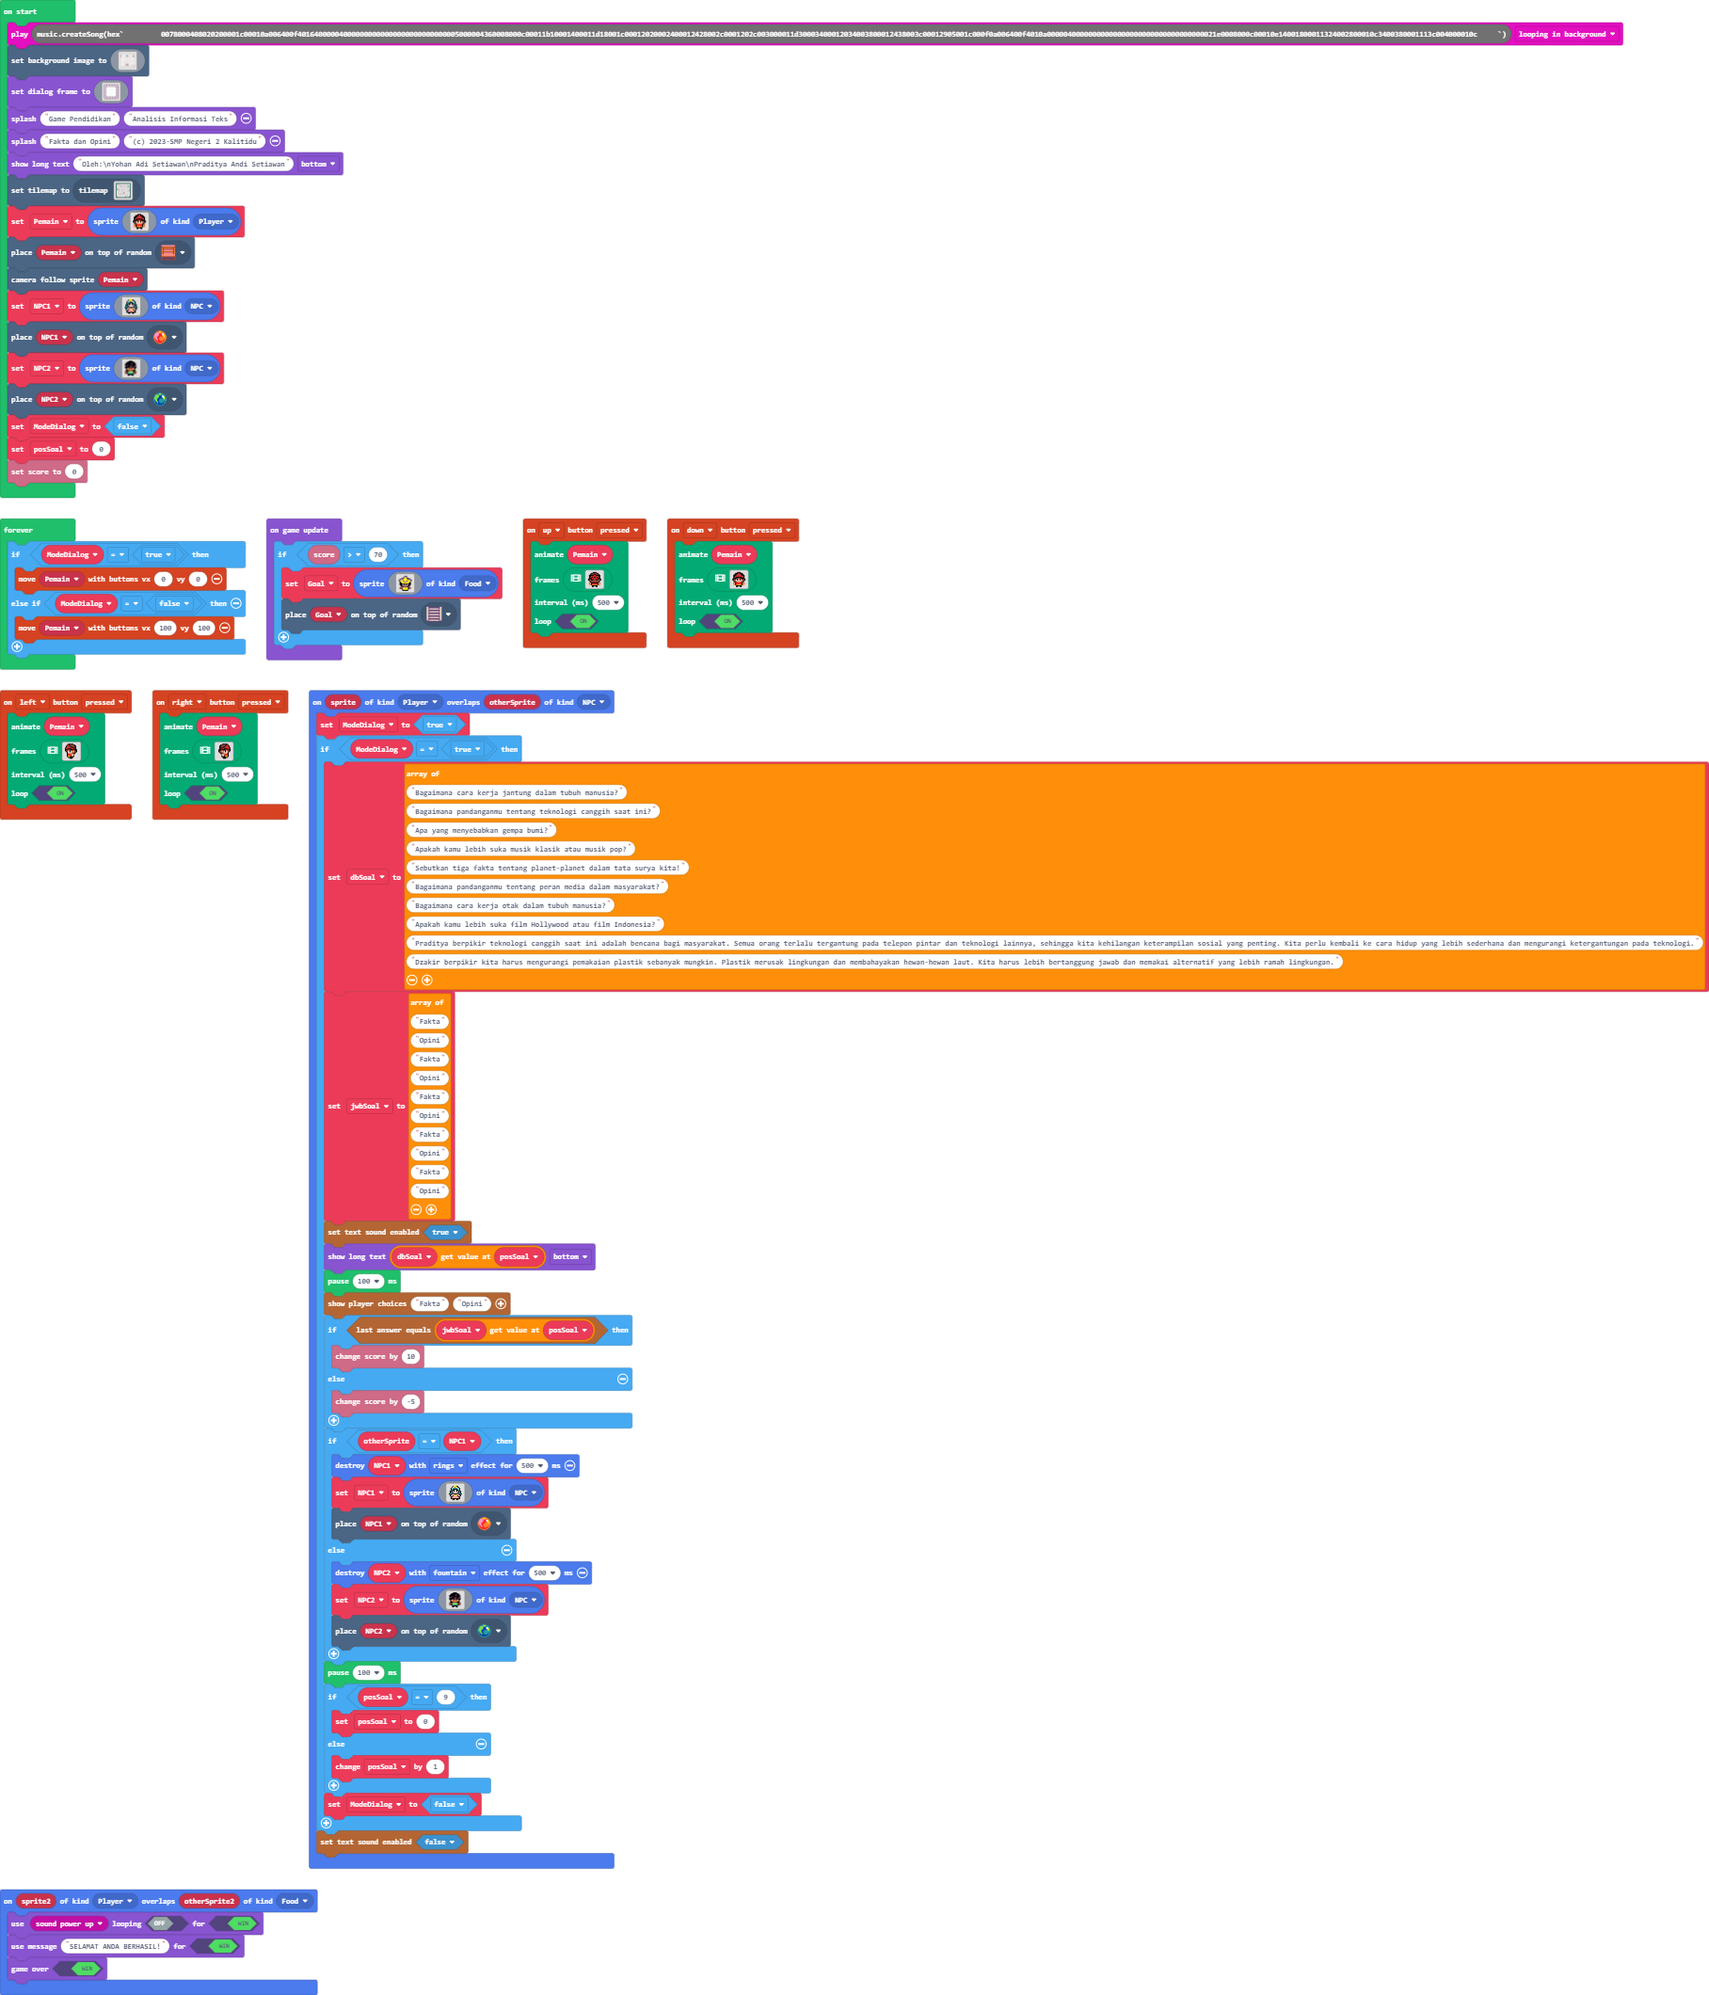
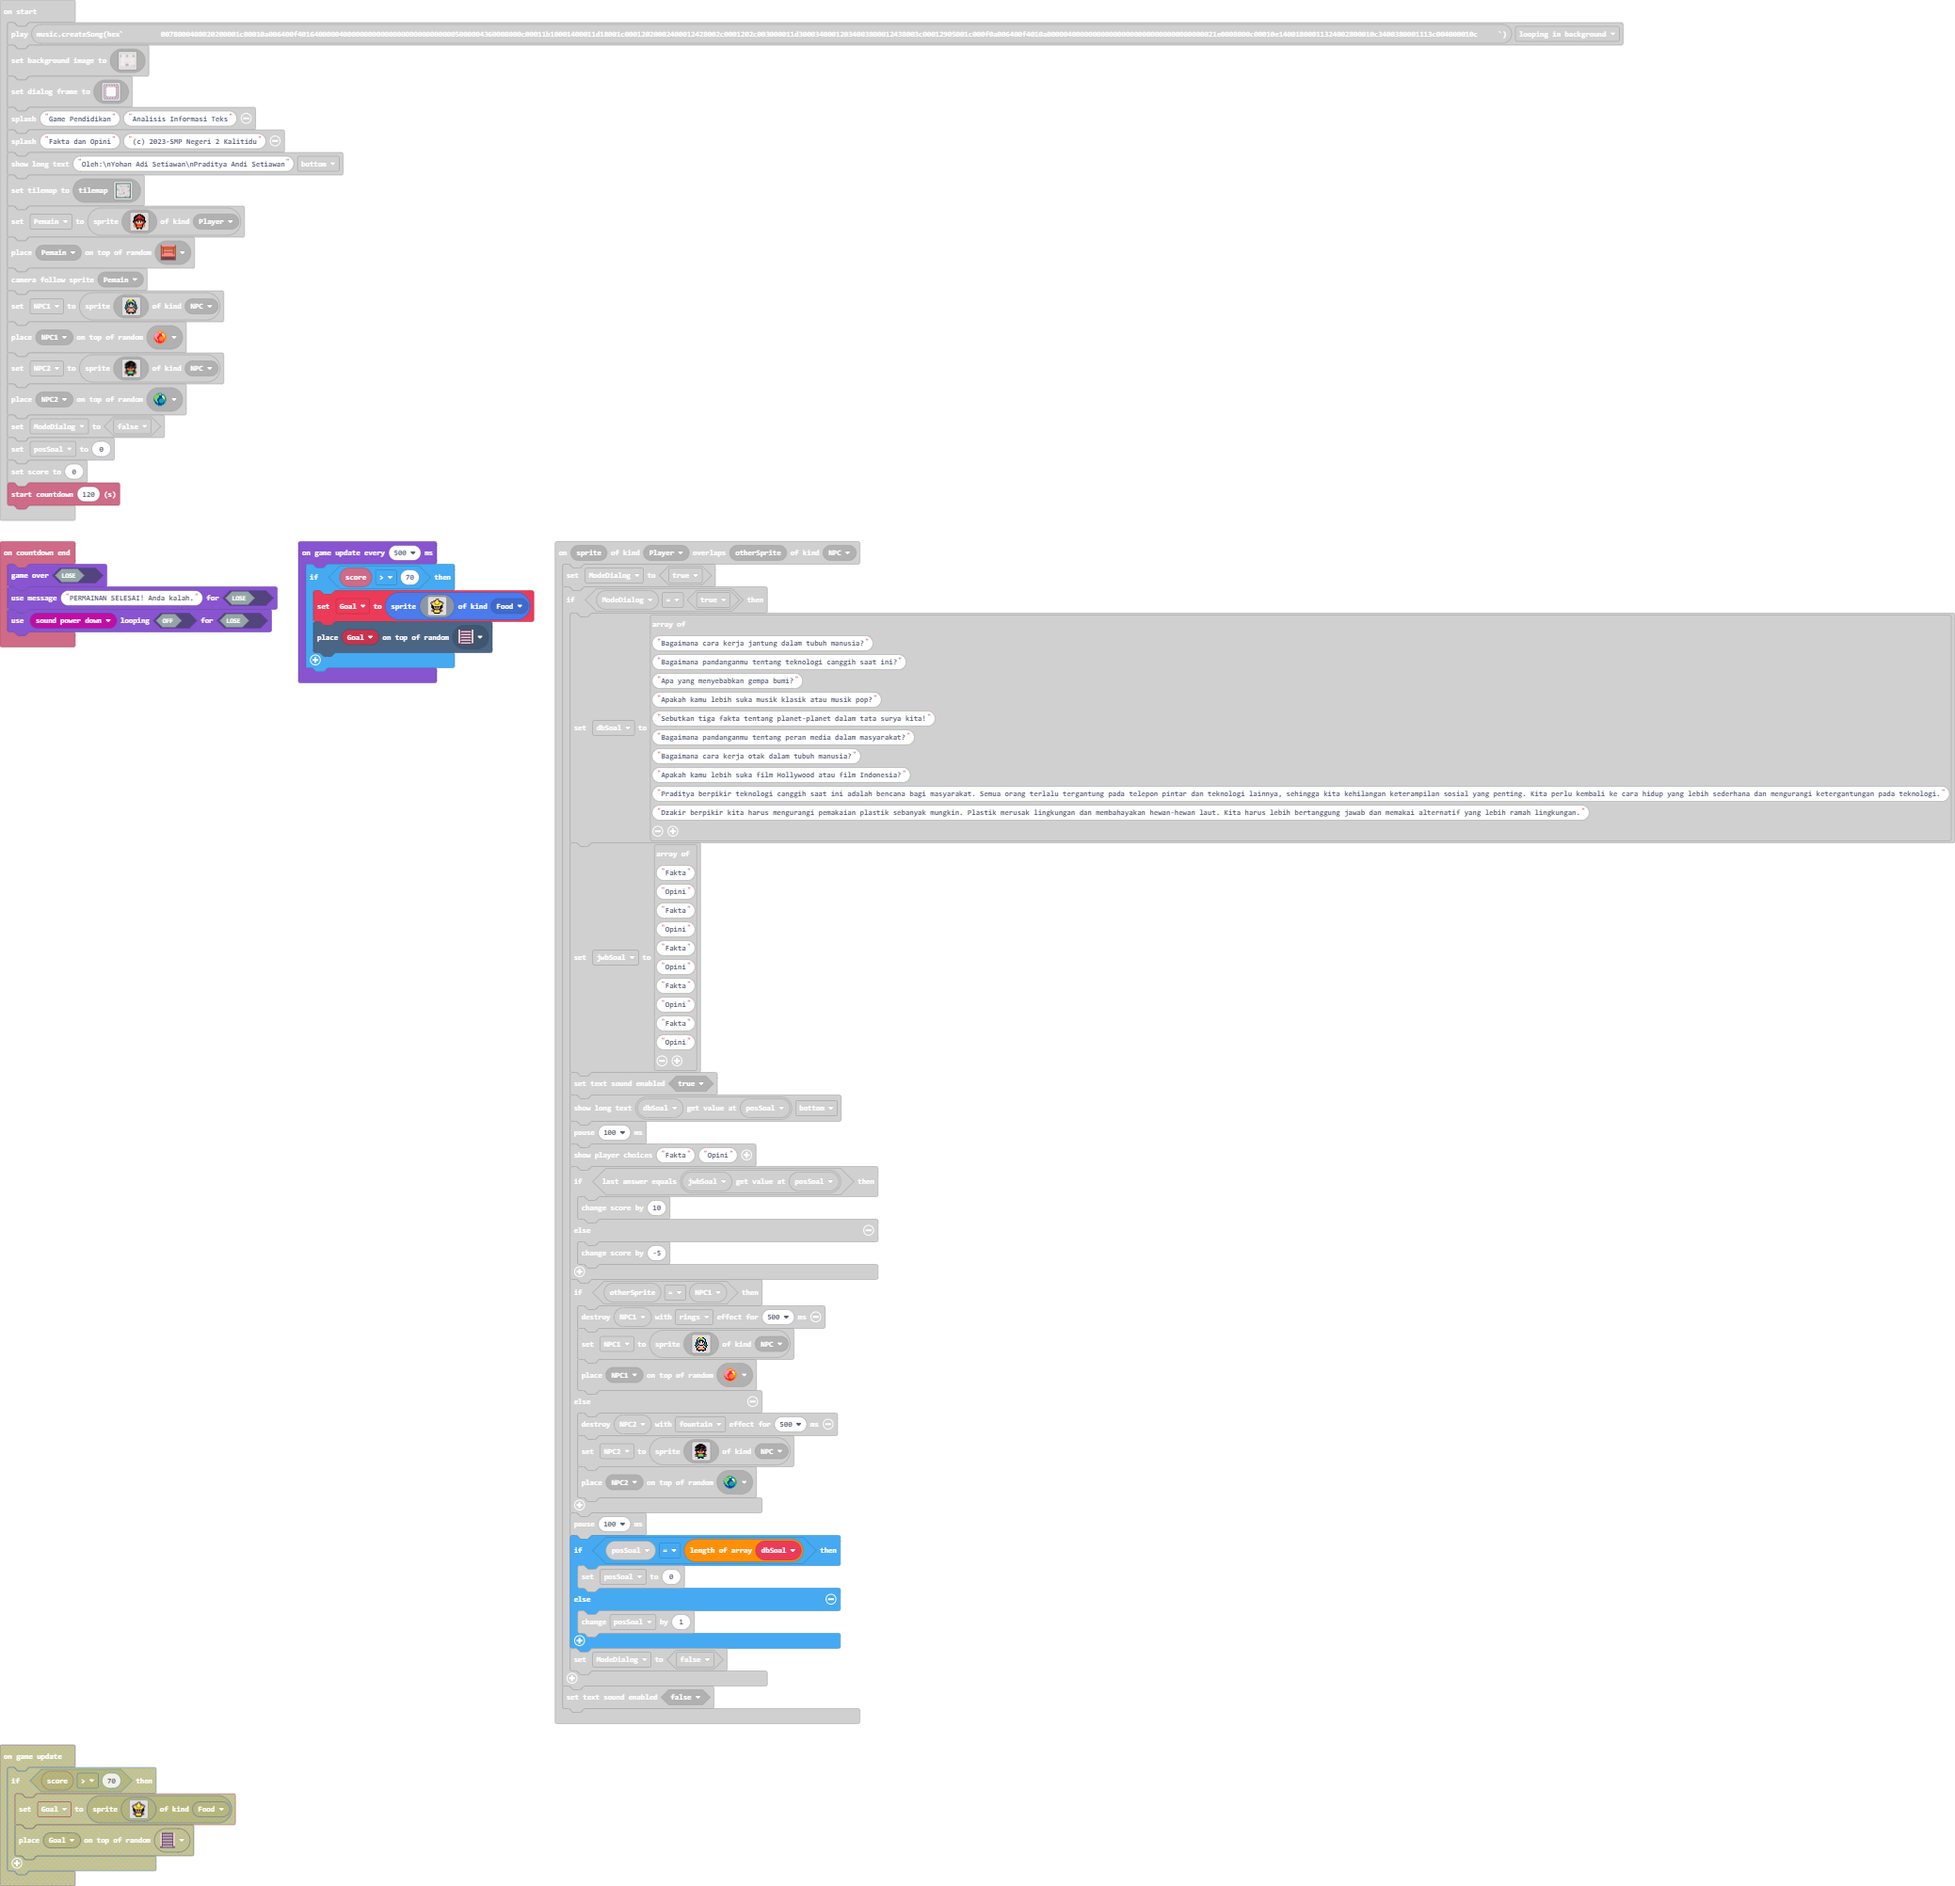
Perbaiki update game model dengan waktu dan setting waktu

Changed region(s): [[0.0, 0.0, 1.0, 1.0]]

diff --git a/tilemap.g.ts b/tilemap.g.ts
@@ -43,6 +43,139 @@ namespace myTiles {
 2 . . 2 . . . . . 2 . . 2 . . 2 
 2 2 2 2 2 2 2 2 2 2 2 2 2 2 2 2 
 `, [myTiles.transparency16,sprites.dungeon.greenOuterSouth0,sprites.dungeon.greenOuterSouthEast,sprites.dungeon.greenOuterSouthWest,sprites.dungeon.greenOuterWest1,sprites.dungeon.greenOuterNorthWest,sprites.dungeon.greenOuterNorth0,sprites.dungeon.greenOuterNorthEast,sprites.dungeon.greenOuterEast0,sprites.dungeon.greenOuterEast1,sprites.dungeon.greenOuterEast2,sprites.dungeon.greenOuterSouth2,sprites.dungeon.floorLight1,sprites.dungeon.stairLadder,sprites.dungeon.floorLightMoss,sprites.dungeon.greenOuterNorth2,sprites.dungeon.greenOuterWest2,sprites.dungeon.stairNorth,sprites.dungeon.collectibleRedCrystal,sprites.dungeon.collectibleBlueCrystal], TileScale.Sixteen);
+            case "level3":
+            case "level3":return tiles.createTilemap(hex`1000100000000000000000000000000000000000000000000000000000000000000000000000000000000000000000000000000000000000000000000000000000000000000000000000000000000000000000000000000000000000000000000000000000000000000000000000000000000000000000000000000000000000000000000000000000000000000000000000000000000000000000000000000000000000000000000000000000000000000000000000000000000000000000000000000000000000000000000000000000000000000000000000000000000000000000000000000000000000000000000000000000000000000000000000000000000000`, img`
+. . . . . . . . . . . . . . . . 
+. . . . . . . . . . . . . . . . 
+. . . . . . . . . . . . . . . . 
+. . . . . . . . . . . . . . . . 
+. . . . . . . . . . . . . . . . 
+. . . . . . . . . . . . . . . . 
+. . . . . . . . . . . . . . . . 
+. . . . . . . . . . . . . . . . 
+. . . . . . . . . . . . . . . . 
+. . . . . . . . . . . . . . . . 
+. . . . . . . . . . . . . . . . 
+. . . . . . . . . . . . . . . . 
+. . . . . . . . . . . . . . . . 
+. . . . . . . . . . . . . . . . 
+. . . . . . . . . . . . . . . . 
+. . . . . . . . . . . . . . . . 
+`, [myTiles.transparency16], TileScale.Sixteen);
+            case "level4":
+            case "level4":return tiles.createTilemap(hex`1000100000000000000000000000000000000000000000000000000000000000000000000000000000000000000000000000000000000000000000000000000000000000000000000000000000000000000000000000000000000000000000000000000000000000000000000000000000000000000000000000000000000000000000000000000000000000000000000000000000000000000000000000000000000000000000000000000000000000000000000000000000000000000000000000000000000000000000000000000000000000000000000000000000000000000000000000000000000000000000000000000000000000000000000000000000000000`, img`
+. . . . . . . . . . . . . . . . 
+. . . . . . . . . . . . . . . . 
+. . . . . . . . . . . . . . . . 
+. . . . . . . . . . . . . . . . 
+. . . . . . . . . . . . . . . . 
+. . . . . . . . . . . . . . . . 
+. . . . . . . . . . . . . . . . 
+. . . . . . . . . . . . . . . . 
+. . . . . . . . . . . . . . . . 
+. . . . . . . . . . . . . . . . 
+. . . . . . . . . . . . . . . . 
+. . . . . . . . . . . . . . . . 
+. . . . . . . . . . . . . . . . 
+. . . . . . . . . . . . . . . . 
+. . . . . . . . . . . . . . . . 
+. . . . . . . . . . . . . . . . 
+`, [myTiles.transparency16], TileScale.Sixteen);
+            case "level5":
+            case "level5":return tiles.createTilemap(hex`1000100000000000000000000000000000000000000000000000000000000000000000000000000000000000000000000000000000000000000000000000000000000000000000000000000000000000000000000000000000000000000000000000000000000000000000000000000000000000000000000000000000000000000000000000000000000000000000000000000000000000000000000000000000000000000000000000000000000000000000000000000000000000000000000000000000000000000000000000000000000000000000000000000000000000000000000000000000000000000000000000000000000000000000000000000000000000`, img`
+. . . . . . . . . . . . . . . . 
+. . . . . . . . . . . . . . . . 
+. . . . . . . . . . . . . . . . 
+. . . . . . . . . . . . . . . . 
+. . . . . . . . . . . . . . . . 
+. . . . . . . . . . . . . . . . 
+. . . . . . . . . . . . . . . . 
+. . . . . . . . . . . . . . . . 
+. . . . . . . . . . . . . . . . 
+. . . . . . . . . . . . . . . . 
+. . . . . . . . . . . . . . . . 
+. . . . . . . . . . . . . . . . 
+. . . . . . . . . . . . . . . . 
+. . . . . . . . . . . . . . . . 
+. . . . . . . . . . . . . . . . 
+. . . . . . . . . . . . . . . . 
+`, [myTiles.transparency16], TileScale.Sixteen);
+            case "level6":
+            case "level6":return tiles.createTilemap(hex`1000100000000000000000000000000000000000000000000000000000000000000000000000000000000000000000000000000000000000000000000000000000000000000000000000000000000000000000000000000000000000000000000000000000000000000000000000000000000000000000000000000000000000000000000000000000000000000000000000000000000000000000000000000000000000000000000000000000000000000000000000000000000000000000000000000000000000000000000000000000000000000000000000000000000000000000000000000000000000000000000000000000000000000000000000000000000000`, img`
+. . . . . . . . . . . . . . . . 
+. . . . . . . . . . . . . . . . 
+. . . . . . . . . . . . . . . . 
+. . . . . . . . . . . . . . . . 
+. . . . . . . . . . . . . . . . 
+. . . . . . . . . . . . . . . . 
+. . . . . . . . . . . . . . . . 
+. . . . . . . . . . . . . . . . 
+. . . . . . . . . . . . . . . . 
+. . . . . . . . . . . . . . . . 
+. . . . . . . . . . . . . . . . 
+. . . . . . . . . . . . . . . . 
+. . . . . . . . . . . . . . . . 
+. . . . . . . . . . . . . . . . 
+. . . . . . . . . . . . . . . . 
+. . . . . . . . . . . . . . . . 
+`, [myTiles.transparency16], TileScale.Sixteen);
+            case "level7":
+            case "level7":return tiles.createTilemap(hex`1000100000000000000000000000000000000000000000000000000000000000000000000000000000000000000000000000000000000000000000000000000000000000000000000000000000000000000000000000000000000000000000000000000000000000000000000000000000000000000000000000000000000000000000000000000000000000000000000000000000000000000000000000000000000000000000000000000000000000000000000000000000000000000000000000000000000000000000000000000000000000000000000000000000000000000000000000000000000000000000000000000000000000000000000000000000000000`, img`
+. . . . . . . . . . . . . . . . 
+. . . . . . . . . . . . . . . . 
+. . . . . . . . . . . . . . . . 
+. . . . . . . . . . . . . . . . 
+. . . . . . . . . . . . . . . . 
+. . . . . . . . . . . . . . . . 
+. . . . . . . . . . . . . . . . 
+. . . . . . . . . . . . . . . . 
+. . . . . . . . . . . . . . . . 
+. . . . . . . . . . . . . . . . 
+. . . . . . . . . . . . . . . . 
+. . . . . . . . . . . . . . . . 
+. . . . . . . . . . . . . . . . 
+. . . . . . . . . . . . . . . . 
+. . . . . . . . . . . . . . . . 
+. . . . . . . . . . . . . . . . 
+`, [myTiles.transparency16], TileScale.Sixteen);
+            case "level8":
+            case "level8":return tiles.createTilemap(hex`1000100000000000000000000000000000000000000000000000000000000000000000000000000000000000000000000000000000000000000000000000000000000000000000000000000000000000000000000000000000000000000000000000000000000000000000000000000000000000000000000000000000000000000000000000000000000000000000000000000000000000000000000000000000000000000000000000000000000000000000000000000000000000000000000000000000000000000000000000000000000000000000000000000000000000000000000000000000000000000000000000000000000000000000000000000000000000`, img`
+. . . . . . . . . . . . . . . . 
+. . . . . . . . . . . . . . . . 
+. . . . . . . . . . . . . . . . 
+. . . . . . . . . . . . . . . . 
+. . . . . . . . . . . . . . . . 
+. . . . . . . . . . . . . . . . 
+. . . . . . . . . . . . . . . . 
+. . . . . . . . . . . . . . . . 
+. . . . . . . . . . . . . . . . 
+. . . . . . . . . . . . . . . . 
+. . . . . . . . . . . . . . . . 
+. . . . . . . . . . . . . . . . 
+. . . . . . . . . . . . . . . . 
+. . . . . . . . . . . . . . . . 
+. . . . . . . . . . . . . . . . 
+. . . . . . . . . . . . . . . . 
+`, [myTiles.transparency16], TileScale.Sixteen);
+            case "level9":
+            case "level9":return tiles.createTilemap(hex`1000100000000000000000000000000000000000000000000000000000000000000000000000000000000000000000000000000000000000000000000000000000000000000000000000000000000000000000000000000000000000000000000000000000000000000000000000000000000000000000000000000000000000000000000000000000000000000000000000000000000000000000000000000000000000000000000000000000000000000000000000000000000000000000000000000000000000000000000000000000000000000000000000000000000000000000000000000000000000000000000000000000000000000000000000000000000000`, img`
+. . . . . . . . . . . . . . . . 
+. . . . . . . . . . . . . . . . 
+. . . . . . . . . . . . . . . . 
+. . . . . . . . . . . . . . . . 
+. . . . . . . . . . . . . . . . 
+. . . . . . . . . . . . . . . . 
+. . . . . . . . . . . . . . . . 
+. . . . . . . . . . . . . . . . 
+. . . . . . . . . . . . . . . . 
+. . . . . . . . . . . . . . . . 
+. . . . . . . . . . . . . . . . 
+. . . . . . . . . . . . . . . . 
+. . . . . . . . . . . . . . . . 
+. . . . . . . . . . . . . . . . 
+. . . . . . . . . . . . . . . . 
+. . . . . . . . . . . . . . . . 
+`, [myTiles.transparency16], TileScale.Sixteen);
         }
         return null;
     })

diff --git a/main.ts b/main.ts
@@ -55,7 +55,7 @@ sprites.onOverlap(SpriteKind.Player, SpriteKind.NPC, function (sprite, otherSpri
             tiles.placeOnRandomTile(NPC2, sprites.dungeon.collectibleBlueCrystal)
         }
         pause(100)
-        if (posSoal == 9) {
+        if (posSoal == dbSoal.length) {
             posSoal = 0
         } else {
             posSoal += 1
@@ -71,6 +71,11 @@ controller.left.onEvent(ControllerButtonEvent.Pressed, function () {
     500,
     true
     )
+})
+info.onCountdownEnd(function () {
+    game.gameOver(false)
+    game.setGameOverMessage(false, "PERMAINAN SELESAI! Anda kalah.")
+    game.setGameOverPlayable(false, music.melodyPlayable(music.powerDown), false)
 })
 controller.right.onEvent(ControllerButtonEvent.Pressed, function () {
     animation.runImageAnimation(
@@ -120,16 +125,17 @@ tiles.placeOnRandomTile(NPC2, sprites.dungeon.collectibleBlueCrystal)
 ModeDialog = false
 posSoal = 0
 info.setScore(0)
-game.onUpdate(function () {
-    if (info.score() > 70) {
-        Goal = sprites.create(assets.image`FinalNPC`, SpriteKind.Food)
-        tiles.placeOnRandomTile(Goal, sprites.dungeon.stairNorth)
-    }
-})
+info.startCountdown(120)
 forever(function () {
     if (ModeDialog == true) {
         controller.moveSprite(Pemain, 0, 0)
     } else if (ModeDialog == false) {
         controller.moveSprite(Pemain, 100, 100)
+    }
+})
+game.onUpdateInterval(500, function () {
+    if (info.score() > 70) {
+        Goal = sprites.create(assets.image`FinalNPC`, SpriteKind.Food)
+        tiles.placeOnRandomTile(Goal, sprites.dungeon.stairNorth)
     }
 })
